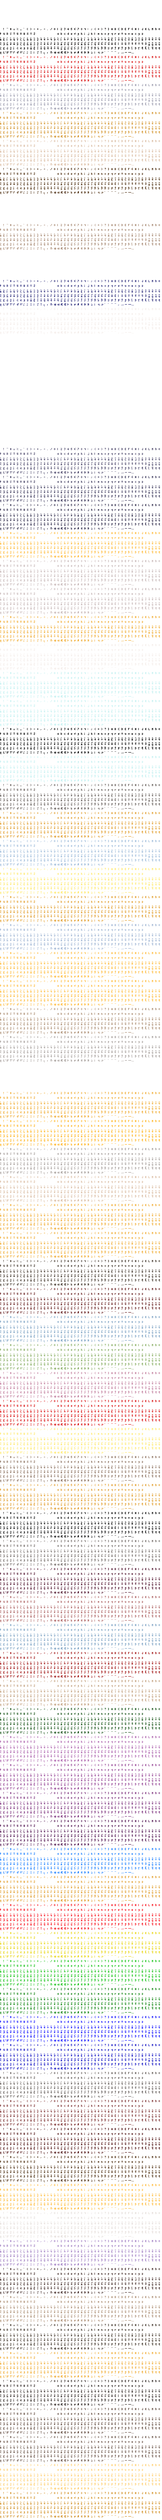
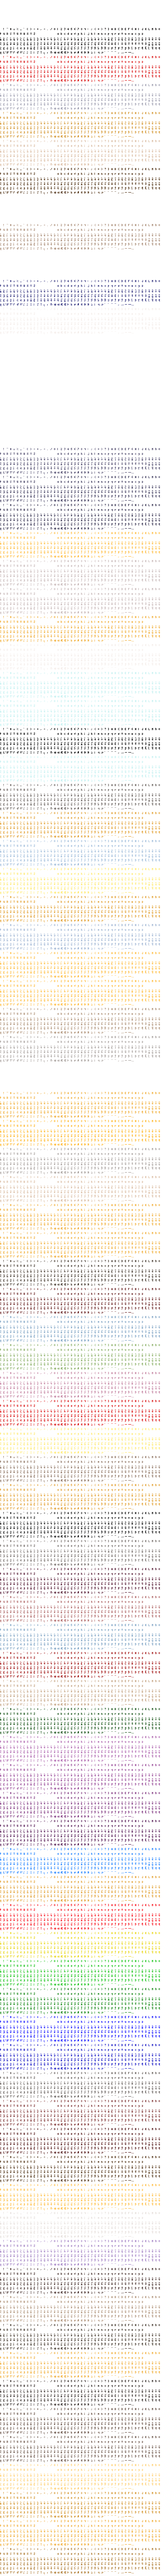
The start menu's words are drawn by the font engine in a gold gradient, not the original's pictures
Claude-Session: https://claude.ai/code/session_01UzZBhxFxbSo1oUbURzwSaE

diff --git a/scripts/font_ramp_sets.py b/scripts/font_ramp_sets.py
@@ -1,0 +1,66 @@
+#!/usr/bin/env python3
+"""Append the colour sets of new ramps to the finished font atlases (styles 0 to 5).
+
+`scripts/font_ramps.py` writes the ramps (`crates/f4x-client/content/font_colour_ramps.ron`, numbered by
+`crates/f4x-client/src/font_ramp.rs`: set 16 + position); the atlases `crates/f4x-client/assets/fonts/style<n>.png`
+stack one copy of the glyphs per set, `scaleH` rows each. This adds the sets the atlas lacks (those
+past its height), idempotent. A new set is the glyphs of the `hof_title` set, whose colours 1 to 11 are all
+different and so tell which of the glyph's 15 colour indexes each pixel has, painted with the new ramp's colours.
+The glyph pixels of indexes 12 to 15 (one colour in `hof_title`) all get index 12's colour.
+Usage: scripts/font_ramp_sets.py   Needs Pillow (`.venv`).
+"""
+import re
+from pathlib import Path
+
+from PIL import Image
+
+ROOT = Path(__file__).resolve().parent.parent
+FONTS = ROOT / "crates/f4x-client/assets/fonts"
+RON = ROOT / "crates/f4x-client/content/font_colour_ramps.ron"
+SOURCE = "hof_title"
+
+
+def ramps() -> list[tuple[str, list[tuple[int, int, int]]]]:
+    out = []
+    for m in re.finditer(r'\(name: "(\w+)", colours: \[(.*?)\]\)', RON.read_text()):
+        cols = [tuple(int(v) for v in c.split(",")) for c in re.findall(r"\(([\d, ]+)\)", m.group(2))]
+        out.append((m.group(1), cols))
+    return out
+
+
+def main() -> None:
+    all_ramps = ramps()
+    names = [n for n, _ in all_ramps]
+    source = dict(all_ramps)[SOURCE]
+    source_at = 16 + names.index(SOURCE)
+    index_of = {}
+    for i, c in enumerate(source):
+        index_of.setdefault(c, i)
+    for n in range(6):
+        path = FONTS / f"style{n}.png"
+        grid = int(re.search(r"scaleH=(\d+)", (FONTS / f"style{n}.fnt").read_text()).group(1))
+        atlas = Image.open(path).convert("RGBA")
+        have = atlas.height // grid
+        want = 16 + len(all_ramps)
+        if have >= want:
+            print(f"style {n}: {have} sets, nothing to add")
+            continue
+        out = Image.new("RGBA", (atlas.width, grid * want), (0, 0, 0, 0))
+        out.paste(atlas, (0, 0))
+        src = atlas.crop((0, source_at * grid, atlas.width, (source_at + 1) * grid))
+        for s in range(have, want):
+            colours = all_ramps[s - 16][1]
+            block = Image.new("RGBA", src.size, (0, 0, 0, 0))
+            sp, bp = src.load(), block.load()
+            for y in range(src.height):
+                for x in range(src.width):
+                    r, g, b, a = sp[x, y]
+                    if a:
+                        bp[x, y] = (*colours[index_of[(r, g, b)]], a)
+            out.paste(block, (0, s * grid))
+        out.save(path, optimize=True)
+        print(f"style {n}: sets {have} to {want - 1} added")
+
+
+if __name__ == "__main__":
+    main()

diff --git a/crates/f4x-client/src/start_menu_art.rs b/crates/f4x-client/src/start_menu_art.rs
@@ -1,0 +1,66 @@
+//! The start menu's words (Continue, Load Game, New Game, Hall of Fame, Quit). The original's are
+//! pictures of gold lettering; here the font engine draws them from text keys in the blackletter
+//! (style 4) with the colour sets `font_ramp::MENU_WORD` (the lettering) and `MENU_WORD_HOVER` (the
+//! word under the mouse), a dark shadow down and to the right, and the font's kerning.
+
+use crate::font::{rgb, Style};
+use crate::font_ramp::{MENU_WORD, MENU_WORD_HOVER};
+use crate::frame::Layout;
+use crate::view::App;
+use macroquad_bitmap_font_engine as bm;
+use std::cell::RefCell;
+use std::rc::Rc;
+
+/// Style 4 with the menu bar's kerning less the pair "am" (`assets/button/kerning_word.fnt`): the
+/// start menu's pictures set it open in "Game" and "Fame".
+fn word_font() -> Rc<bm::BmFont> {
+    thread_local! {
+        static FACE: RefCell<Option<Rc<bm::BmFont>>> = const { RefCell::new(None) };
+    }
+    FACE.with(|face| {
+        face.borrow_mut()
+            .get_or_insert_with(|| {
+                let fnt = format!(
+                    "{}\n{}",
+                    include_str!("../assets/fonts/style4.fnt"),
+                    include_str!("../assets/button/kerning_word.fnt")
+                );
+                Rc::new(
+                    bm::BmFont::from_bytes(&fnt, include_bytes!("../assets/fonts/style4.png"))
+                        .expect("the start menu's font loads"),
+                )
+            })
+            .clone()
+    })
+}
+
+/// Where the middle of a word is in the original's pixels: its pictures are 82 wide from x = 123, and
+/// the lettering in them is not on one centre line (each is set a pixel or two off).
+fn centre(key: &str) -> f32 {
+    match key {
+        "menu.continue" => 163.5,
+        "menu.load_game" => 161.5,
+        "menu.hall_of_fame" => 163.0,
+        _ => 161.0,
+    }
+}
+
+impl App {
+    /// Draw the word of text key `key` with its top at `y`; `hover` when the mouse is over it.
+    pub(crate) fn draw_menu_word(&mut self, lay: &Layout, key: &str, y: f32, hover: bool) {
+        let set = if hover { MENU_WORD_HOVER } else { MENU_WORD };
+        let style = Style::inked(4, crate::font::Ink::Set(set))
+            .shadow()
+            .edge(rgb(8, 4, 4))
+            .center();
+        let label = self.text(key);
+        let centre = centre(key);
+        self.draw_styled_in(
+            &word_font(),
+            (lay.origin.x, lay.origin.y, lay.scale),
+            &style,
+            &label,
+            (centre, y),
+        );
+    }
+}

diff --git a/crates/f4x-client/src/menu_screen.rs b/crates/f4x-client/src/menu_screen.rs
@@ -293,8 +293,8 @@ impl Page for MainMenuPage {
             );
         }
 
-        // The entries: the original puts them 12 pixels apart from y = 141, and the "words" are
-        // `vortex.lbx` pictures (1 Continue, 2 Hall of Fame, 3 Quit, 4 New Game, 5 Load Game).
+        // The entries: the original puts them 12 pixels apart from y = 141; the words are drawn by
+        // the font engine (`start_menu_art.rs`) in the place of the original's `vortex.lbx` pictures.
         let mut chosen = None;
         let top = if rows.len() >= 5 {
             141.0
@@ -302,28 +302,18 @@ impl Page for MainMenuPage {
             141.0 + 12.0 * (5 - rows.len()) as f32
         };
         for (i, &entry) in rows.iter().enumerate() {
-            let (label, vortex, hotkey) = match entry {
-                Entry::Continue => ("menu.continue", 1, KeyCode::C),
-                Entry::Load => ("menu.load_game", 5, KeyCode::L),
-                Entry::New => ("menu.new_game", 4, KeyCode::N),
-                Entry::Fame => ("menu.hall_of_fame", 2, KeyCode::H),
-                Entry::Quit => ("menu.quit", 3, KeyCode::Q),
-                Entry::Credits => ("menu.credits", 1, KeyCode::R),
+            let (label, hotkey) = match entry {
+                Entry::Continue => ("menu.continue", KeyCode::C),
+                Entry::Load => ("menu.load_game", KeyCode::L),
+                Entry::New => ("menu.new_game", KeyCode::N),
+                Entry::Fame => ("menu.hall_of_fame", KeyCode::H),
+                Entry::Quit => ("menu.quit", KeyCode::Q),
+                Entry::Credits => ("menu.credits", KeyCode::R),
             };
-            let label = app.text(label);
             let y = top + 12.0 * i as f32;
-            let enabled = true;
-            let clicked = app.menu_button(
-                &lay,
-                (108.0, y - 2.0, 103.0, 12.0),
-                Some(("vortex", vortex, 123.0, y)),
-                &label,
-                enabled,
-                true,
-                false,
-                input,
-            );
-            if (clicked || (enabled && input.key_pressed(hotkey))) && chosen.is_none() {
+            let state = ui::hit(lay.rect((108.0, y - 2.0, 103.0, 12.0)), true, input);
+            app.draw_menu_word(&lay, label, y, state.hovered());
+            if (state.clicked() || input.key_pressed(hotkey)) && chosen.is_none() {
                 chosen = Some(entry);
             }
         }

diff --git a/scripts/font_ramps.py b/scripts/font_ramps.py
@@ -61,6 +61,14 @@ RAMPS = [
 ]
 
 
+# Ramps added after the flats, so the sets of the ramps before them keep their places in the atlases
+# (`scripts/font_ramp_sets.py` appends the new sets to the atlases).
+LATE = [
+    ("MENU_WORD", None, [0, 178, 177, 176, 176], "the start menu's words: gold, light on top (its `vortex` pictures)"),
+    ("MENU_WORD_HOVER", None, [0, 182, 180, 178, 178], "the start menu's word under the mouse: the same gold, darker"),
+]
+
+
 # Palette indexes the original makes a one-colour set of (`colors[0..5] = banner_colors[...]`): the
 # banner colours of the wizards' names and enchantments. `flat(index)` in `font_ramp.rs` gives the set.
 FLATS = [0, 6, 39, 43, 98, 166, 50, 79, 123, 124, 125, 127, 172, 179, 201, 211, 216, 218, 221, 222, 5, 45, 47, 55, 177, 13, 114, 16, 31, 187, 178, 2, 20, 22, 176, 180]
@@ -103,7 +111,9 @@ def main() -> int:
         "#![allow(dead_code)]",
         "",
     ]
-    RAMPS_ALL = RAMPS + [(f"FLAT_{i}", None, [i] * 6, f"palette colour {i} on its own") for i in FLATS]
+    RAMPS_ALL = (
+        RAMPS + [(f"FLAT_{i}", None, [i] * 6, f"palette colour {i} on its own") for i in FLATS] + LATE
+    )
     for k, (name, screen, indexes, origin) in enumerate(RAMPS_ALL):
         colours = [look(screen, indexes[min(c, len(indexes) - 1)]) for c in range(1, 16)]
         body = ", ".join(f"({r}, {g}, {b})" for r, g, b in colours)

diff --git a/crates/f4x-client/src/font_ramp.rs b/crates/f4x-client/src/font_ramp.rs
@@ -151,8 +151,12 @@ pub(crate) const FLAT_22: usize = 87;
 pub(crate) const FLAT_176: usize = 88;
 /// palette colour 180 on its own.
 pub(crate) const FLAT_180: usize = 89;
+/// the start menu's words: gold, light on top (its `vortex` pictures).
+pub(crate) const MENU_WORD: usize = 90;
+/// the start menu's word under the mouse: the same gold, darker.
+pub(crate) const MENU_WORD_HOVER: usize = 91;
 /// How many ramps there are; the atlases of styles 0 to 5 stack 16 + this many colour sets.
-pub(crate) const COUNT: usize = 74;
+pub(crate) const COUNT: usize = 76;
 
 /// The colour set of one palette colour on its own (`FLATS` in the script); a colour not
 /// listed there panics: add it to `FLATS` and run the script again.

diff --git a/crates/f4x-client/src/main.rs b/crates/f4x-client/src/main.rs
@@ -83,6 +83,7 @@ mod spell_fx;
 mod spell_sight;
 mod spellbook;
 mod square_anim;
+mod start_menu_art;
 mod summon_scene;
 mod surveyor;
 mod temp_effect_view;

diff --git a/docs/scripts.md b/docs/scripts.md
@@ -39,6 +39,7 @@ row when you add or change a script (see `CLAUDE.md`).
 | `font_colors_by_screen.py` | Lists every `Set_Font_Colors_15` call in ReMoM's C source (`~/projects/ReMoM`) as `docs/font_colors_by_screen.tsv`: file, function, line, font style, the `Set_Outline_Color` before it, the palette indexes of the 16-entry set and their base-palette colours ("screen" for 224 up, see `palette_screens.tsv`). Reads the colour arrays as the code fills them, straight through. |
 | `font_color_sets.py` | Writes the original's 16 built-in font colour sets (`font_colors`, 768 bytes into each `FONTS.LBX` palette entry 2 to 8) as `docs/font_color_sets.tsv`: palette, set, entry, palette index, RGB, hex. Entry 0 of a set is the alias colour; set 15 is the custom one `Set_Font_Colors_15` overwrites. |
 | `font_ramps.py` | Writes the colour sets the original's screens make with `Set_Font_Colors_15` (the `RAMPS` list in the script, each with its source screen's palette) as `crates/f4x-client/content/font_colour_ramps.ron` and the constants `crates/f4x-client/src/font_ramp.rs`. Dev-side only; the committed fonts in `crates/f4x-client/assets/fonts` are hand-edited, so do not copy new extractor output over them (see `docs/extract-art.md` section 5). Adding a ramp needs its colour set appended to the finished atlases, not a re-extraction. Whenever a ramp is added: the ramps become colour sets 16+ in the atlases of styles 0 to 5. |
+| `font_ramp_sets.py` | Appends the colour sets of new ramps (`LATE` in `font_ramps.py`, run that first) to the finished font atlases `crates/f4x-client/assets/fonts/style0..5.png`: the glyphs of the `hof_title` set recoloured with the ramp's colours; idempotent. Needs Pillow (`.venv`). |
 | `palette_swap.py` | Recolours the 14 wizard portraits by region (hair, clothes, backdrop; faces protected), three variants each, into `assets-local/palette-swap/` plus a contact sheet. Needs the extracted art and Pillow (`.venv`, `requirements.txt`). Local-only output. |
 | `tools/xmi-play` (own cargo project, not a script) | Console player for the original's XMI songs (task 363 spike): reads an XMI file, uploads the timbres of its `TIMB` chunk from `fat.mt`, renders it on an emulated MT-32 (`mt32-rs`, pinned commit; LGPL, so it lives outside the workspace) to a WAV and plays it with `afplay`. Given a folder it shows a menu of the `.xmi` files (Up/Down, Enter plays, Esc stops the song and returns to the menu, Esc or q in the menu leaves). `cd tools/xmi-play && cargo run --release -- ../../assets-local/audio/music/104_main_menu.xmi`; `-R DIR` renders every song of the folder to `DIR/NAME.ogg` (the files the game plays: `cd tools/xmi-play && cargo run --release -- -R ../../assets-local/audio/music ../../assets-local/audio/music`, about 2 minutes for the 116 songs; needs `oggenc` or `ffmpeg`); `-h` for options. `mt32-rs` is the git submodule `third_party/mt32-rs` (`git submodule update --init`). Needs the new-revision ROMs (`mt32_ctrl_2_07.rom`, `mt32_pcm.rom`) in `reference/Roland MT-32/rom-new/`. |
 | `check_id_aliases.py` | Checks that the alias written beside a number in the Rust code (`BuildingId::new(35) /* city_walls */`, `Ability::new(28), // flying`, `UnitId::new(169) /* demon */`, `units.id_numbered(169) /* demon */`, also `ItemPowerId`, `ItemId` and `Retort`) is the alias of that number in `content/buildings.ron`, `abilities.ron`, `units.ron`, `realms.ron`, `spells.ron`, `races.ron`, `features.ron` or `terrain.ron` (also `RealmId::new`, `SpellId::new`, `RaceId::new`, `spells.id_numbered`, ...). Run it after writing a number by hand; exit 1 lists the wrong ones. |

diff --git a/docs/extract-art.md b/docs/extract-art.md
@@ -233,7 +233,7 @@ pick the same palette the game had loaded when it showed a picture, or the colou
   they were edited by hand after the one-time extraction (accents and other fixes), are compiled into the client, and
   are the only copy that ships. The extractor output (`fonts/bmfont/` in `assets-local`) is dev-side only and is not
   copied into the package; never copy it over the committed fonts. A new ramp needs its colour set added to the
-  committed atlases by a tool or by hand (open: no tool does that yet). Use one with `Style::inked(font, Ink::Set(font_ramp::NAME))`, and `.effect(Effect::Shadow |
+  committed atlases: put it in `LATE` of the script (after the flats, so the sets keep their places) and run `scripts/font_ramp_sets.py`, which appends the sets to the atlases of styles 0 to 5. Use one with `Style::inked(font, Ink::Set(font_ramp::NAME))`, and `.effect(Effect::Shadow |
   Outline | OutlineHeavy)` with `.edge(colour)` for `Set_Font_Style_Shadow_Down / Outline / Outline_Heavy`
   and `Set_Outline_Color`. Outline colours from palette index 224 up belong to a screen's own palette: read
   them from that screen's palette in ReMoM, or approximate and say so in a comment. The atlas must stay under

diff --git a/docs/button-text-checklist.md b/docs/button-text-checklist.md
@@ -25,7 +25,7 @@ translucent shadow edge (`.edge(Color::from_rgba(..))`) follows the marbling.
 8. [ ] Road build: OK and CANCEL are baked into the border picture; the surveyor (`main` 41) too
 9. [ ] Spell cast: Cancel, baked into the border and also a picture of its own
 10. [x] Load/Save: Load, Save, Quit, Settings, Ok are text-free planks (`plank_38/39/40/58.png`, widened from the original's blank load button), labels from `menu.*` keys drawn kerned by `plank_button_art.rs`
-11. [ ] Start menu: Continue, Hall Of Fame, Load Game, New Game, Quit To DOS (large blackletter, a bigger style)
+11. [x] Start menu: Continue, Hall Of Fame, Load Game, New Game, Quit are drawn by `start_menu_art.rs` (style 4 in the new gold gradient sets `MENU_WORD` and `MENU_WORD_HOVER`, kerned without the open "am" pair, each word set on its own centre, labels from the `menu.*` keys; New Game and Hall Of Fame match the original pixel for pixel); the `vortex` word pictures are no longer used. The original's "Quit To DOS" is "Quit"
 
 ## Probably text, to verify first
 
